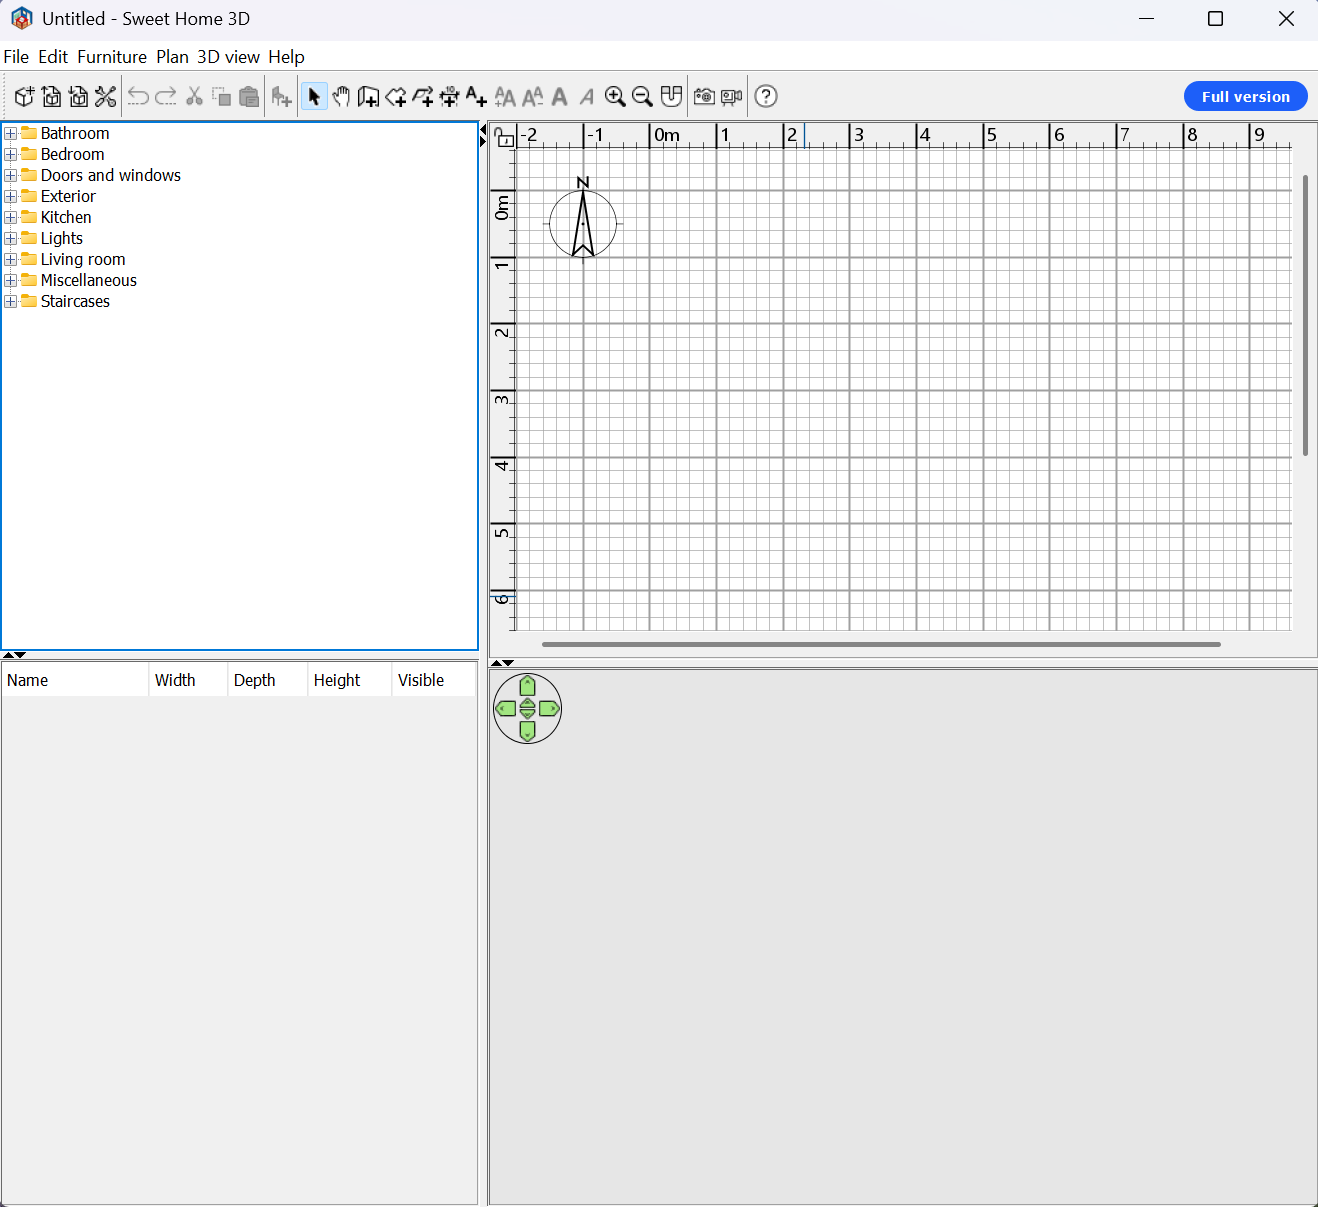
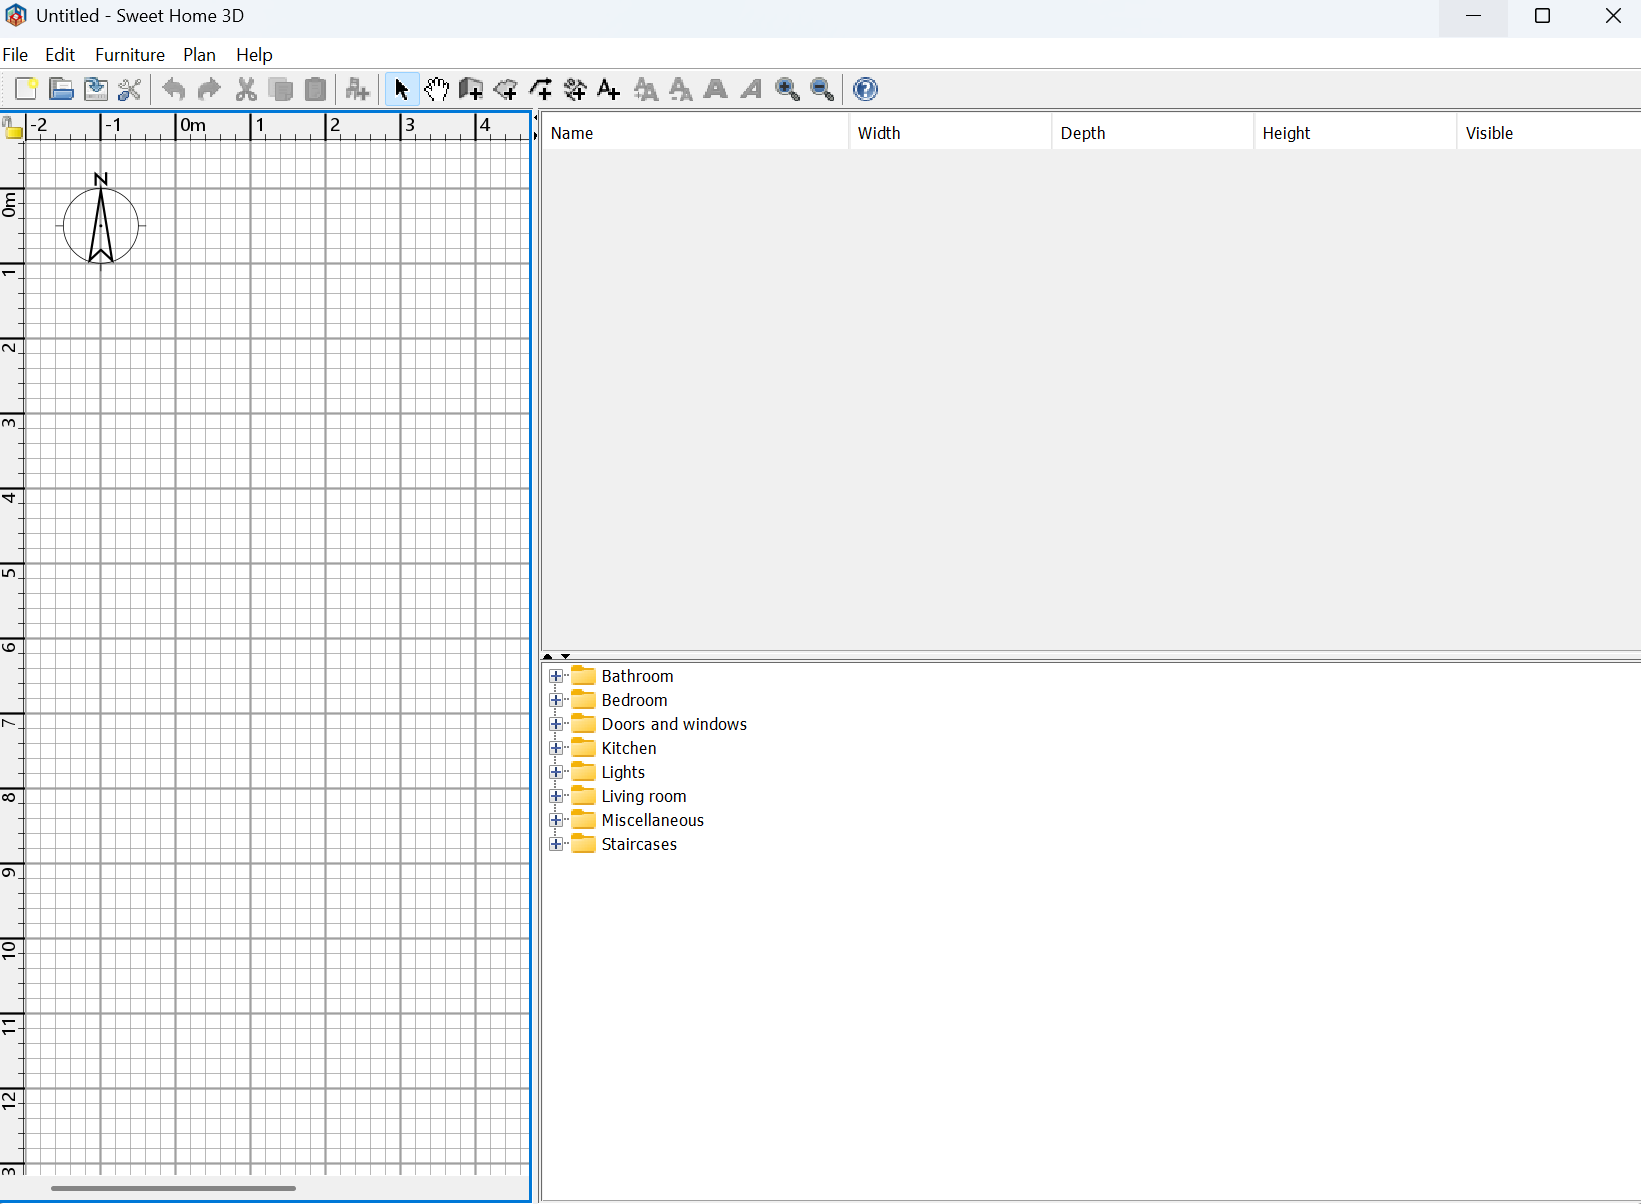
Add Task 1 running screenshot

diff --git a/ASSIGNMENT.md b/ASSIGNMENT.md
@@ -1,4 +1,4 @@
-# Internship tasks
+[//]: # (# Internship tasks)
 
 Work through the tasks in order. English-only UI updates are sufficient.
 
